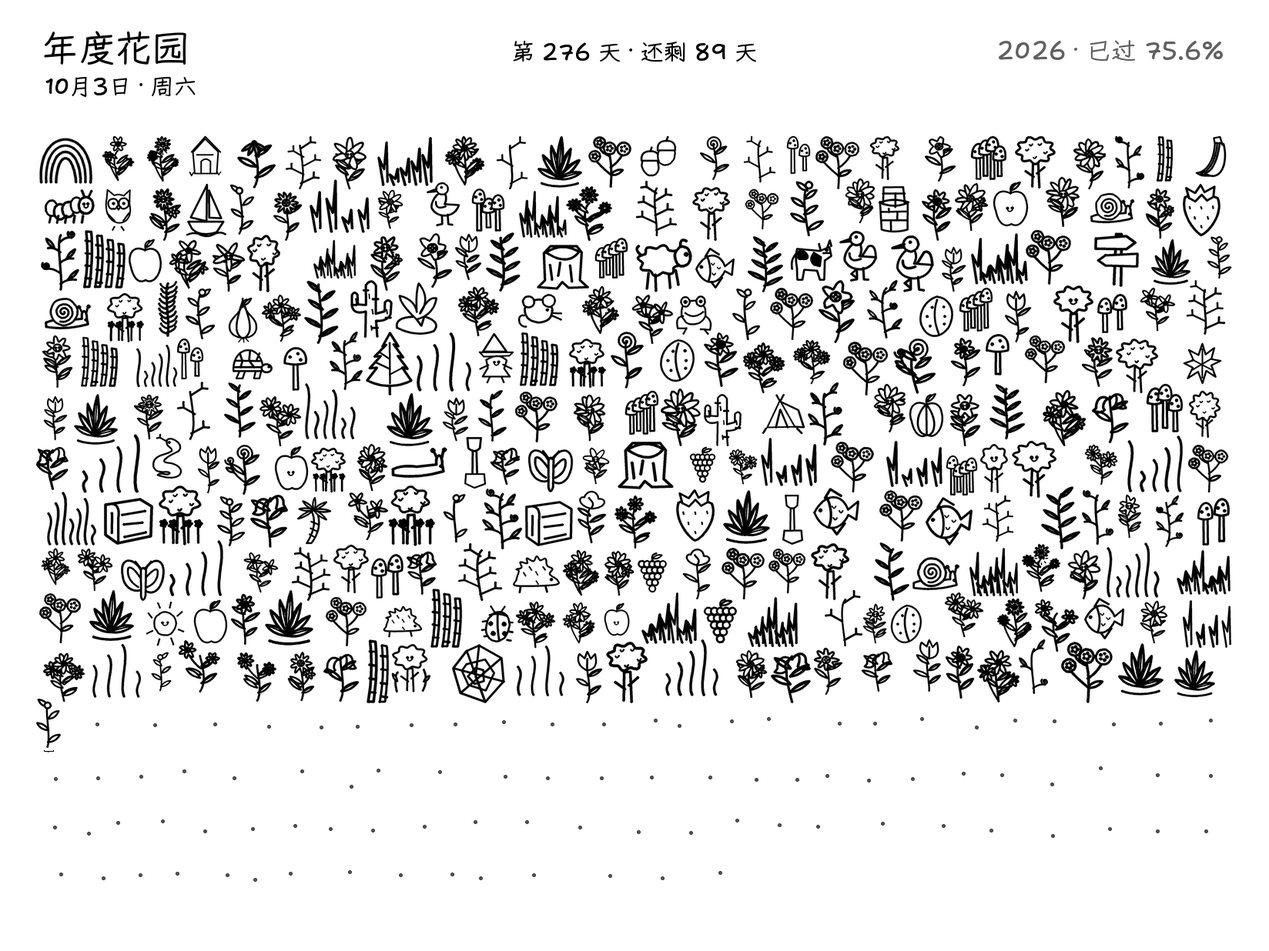
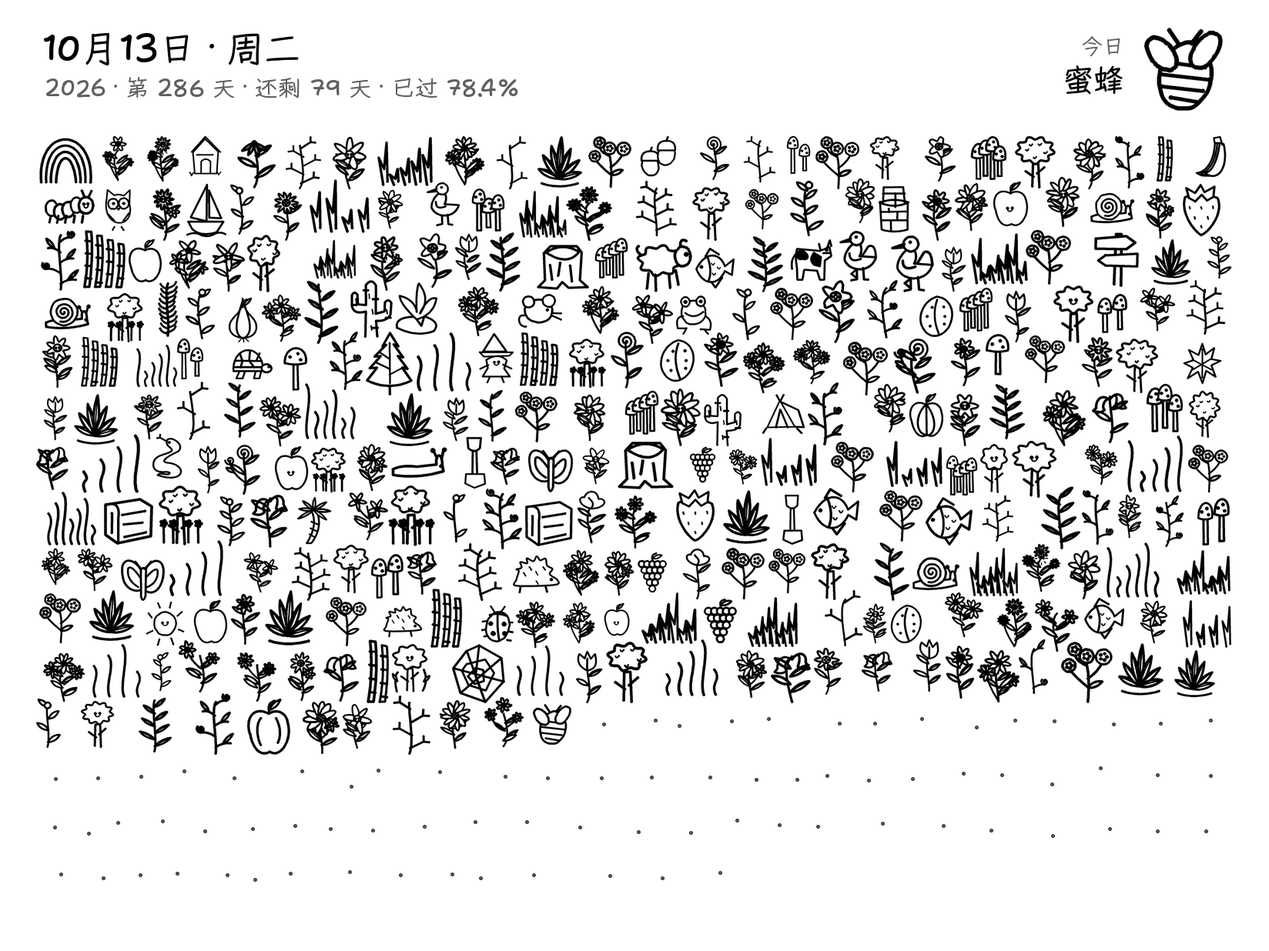
feat: feature today's garden drawing and seasonal placement
Lead the annual garden header with the date and merge the year, day count,
remaining days and elapsed percentage into one gray line. Show the drawing
that grew today, enlarged with its Chinese name, in the top-right corner and
remove the in-garden today underline. The strip it reserved stays in the
layout so existing yearly positions do not move. Render revision 7.

From 2027, twelve seasonal subjects only appear in their months, repeats
are spread about a week apart, and southern-hemisphere locations shift the
seasons by six months. A location change across the equator re-renders the
garden. 2026 and earlier keep their original order and positions, pinned by
tests.

Claude-Session: https://claude.ai/code/session_01QYsiwwUpYhweXhBkxkiEnG

diff --git a/kindle-display/app/annual_garden.py b/kindle-display/app/annual_garden.py
@@ -11,7 +11,7 @@ import random
 
 from PIL import Image, ImageDraw, ImageFont
 
-RENDER_REVISION = 6
+RENDER_REVISION = 7
 SIZE = (1648, 1236)
 ASSETS = Path(__file__).with_name('assets') / 'annual-garden'
 INK = 0
@@ -22,6 +22,37 @@ WEEKDAYS = '一二三四五六日'
 GRID = (44, 174, 1604, 1176)
 COLUMNS = 25
 OUTLINE_GAP = 2
+# Header feature for the drawing that grew today: right edge, bottom, size cap.
+TODAY_RIGHT, TODAY_BOTTOM, TODAY_HEIGHT, TODAY_WIDTH = 1590, 146, 112, 150
+
+SUBJECT_NAMES = {
+    'acorn': '橡果', 'apple': '苹果', 'bamboo': '竹子', 'banana': '香蕉', 'bee': '蜜蜂', 'bell': '风铃草',
+    'berries': '浆果', 'bird': '小鸟', 'bush': '灌木', 'butterfly': '蝴蝶', 'cactus': '仙人掌', 'camp': '帐篷',
+    'carrot': '胡萝卜', 'caterpillar': '毛毛虫', 'cherry': '樱桃', 'clover': '小野花', 'cow': '奶牛',
+    'daisy': '雏菊', 'droop': '垂头花', 'fern': '蕨叶', 'fig': '无花果', 'fish': '小鱼', 'frog': '青蛙',
+    'grapes': '葡萄', 'grass': '草丛', 'hedgehog': '刺猬', 'heron': '苍鹭', 'honeycomb': '蜂巢',
+    'house': '小屋', 'ladybug': '瓢虫', 'lily': '百合', 'log': '原木', 'moon': '月亮', 'mouse': '小老鼠',
+    'mushroom': '蘑菇', 'onion': '洋葱', 'owl': '猫头鹰', 'palm': '棕榈', 'pepper': '甜椒', 'pine': '松树',
+    'pumpkin': '南瓜', 'rainbow': '彩虹', 'rake': '耙子', 'raspberry': '树莓', 'rose': '玫瑰',
+    'rosemary': '迷迭香', 'sailboat': '帆船', 'seaweed': '水草', 'sheep': '绵羊', 'shrub': '树丛',
+    'signpost': '路牌', 'slug': '蛞蝓', 'snail': '蜗牛', 'snake': '小蛇', 'snowman': '雪人', 'spade': '铲子',
+    'spiderweb': '蛛网', 'spiralflower': '黑心菊', 'sprout': '新芽', 'star': '星星', 'stones': '叠石',
+    'strawberry': '草莓', 'stump': '树桩', 'succulent': '多肉', 'sun': '太阳', 'sunflower': '向日葵',
+    'tortoise': '乌龟', 'tree': '小树', 'tulip': '郁金香', 'twig': '枝条', 'vine': '藤蔓',
+    'wateringcan': '洒水壶', 'waterlily': '睡莲', 'well': '水井', 'witch': '小女巫', 'worm': '小虫',
+    'leap-day': '闰日花',
+}
+
+# Years from this one place seasonal subjects in their months. Earlier years
+# keep the original shuffle so gardens already growing do not change.
+SEASONAL_FROM_YEAR = 2027
+# Northern-hemisphere months; the southern hemisphere shifts them by six.
+SEASONS = {
+    'tulip': (3, 4, 5), 'cherry': (5, 6), 'strawberry': (5, 6, 7), 'raspberry': (6, 7, 8),
+    'waterlily': (6, 7, 8), 'sunflower': (7, 8, 9), 'grapes': (8, 9, 10), 'fig': (8, 9, 10),
+    'apple': (9, 10, 11), 'pumpkin': (10, 11), 'acorn': (10, 11), 'snowman': (12, 1, 2),
+}
+MONTH_OF_DAY = tuple(month for month in range(1, 13) for _ in range(calendar.mdays[month]))
 
 
 @lru_cache(maxsize=1)
@@ -78,11 +109,41 @@ def day_counts(now):
     return ordinal, total
 
 
+def subject_of(asset_id: str) -> str:
+    return asset_id if asset_id == 'leap-day' else asset_id.split('-', 1)[1]
+
+
+def season_months(subject: str, southern: bool) -> tuple[int, ...]:
+    months = SEASONS.get(subject, ())
+    return tuple((month+5) % 12 + 1 for month in months) if southern else months
+
+
+def seasonal_order(order, rng, southern: bool) -> list[str]:
+    """Give seasonal drawings a day in their months, spread apart, and fill the
+    remaining days with the other drawings in their shuffled order."""
+    days = [None]*len(order)
+    for asset_id in order:
+        months = season_months(subject_of(asset_id), southern)
+        if not months:
+            continue
+        free = [day for day, month in enumerate(MONTH_OF_DAY) if month in months and days[day] is None]
+        same = [day for day, other in enumerate(days) if other and subject_of(other) == subject_of(asset_id)]
+        distance = {day: min((abs(day-other) for other in same), default=len(order)) for day in free}
+        # Prefer a week between repeats; settle for the widest gap when crowded.
+        spacing = min(7, max(distance.values()))
+        days[rng.choice([day for day in free if distance[day] >= spacing])] = asset_id
+    rest = iter(asset_id for asset_id in order if not SEASONS.get(subject_of(asset_id)))
+    return [asset_id or next(rest) for asset_id in days]
+
+
 @lru_cache(maxsize=128)
-def order_for_year(year: int, seed: str) -> tuple[str, ...]:
+def order_for_year(year: int, seed: str, southern: bool = False) -> tuple[str, ...]:
     order = list(library())
     digest = hashlib.sha256(f'annual-garden:v1:{year}:{seed}'.encode()).digest()
-    random.Random(int.from_bytes(digest,'big')).shuffle(order)
+    rng = random.Random(int.from_bytes(digest,'big'))
+    rng.shuffle(order)
+    if year >= SEASONAL_FROM_YEAR:
+        order = seasonal_order(order, rng, southern)
     if calendar.isleap(year):
         order.insert(59,'leap-day')
     return tuple(order)
@@ -113,7 +174,9 @@ def silhouette_rows(asset_id: str, width: int, height: int):
     Fill the span between the outermost ink pixels on each scanline. Unlike a
     bounding rectangle this retains the narrower stem and concave sides, while
     preventing another plant from entering a flower, rainbow or bamboo clump.
-    Include antialiasing, the future seed and the possible today underline.
+    Include antialiasing, the future seed and a short strip below the stem.
+    That strip once held the today underline; it stays reserved so existing
+    yearly layouts keep every plant where it is.
     """
     original = asset_mask(asset_id)
     mask = original.crop(original.getbbox()).resize((width, height), Image.Resampling.LANCZOS)
@@ -216,14 +279,14 @@ def place_plant(plant, cx, cy, occupied, row_top, row_bottom, fallback):
 
 
 @lru_cache(maxsize=32)
-def planned_slots(year: int, seed: str):
+def planned_slots(year: int, seed: str, southern: bool = False):
     """Compose the whole year once; daily growth never moves existing plants.
 
     Unequal widths drive horizontal positions. Small groups sit closer together
     with wider pockets between them, and their baselines rise and fall.
     Silhouette-aware placement forbids overlaps, including white interiors.
     """
-    order = order_for_year(year, seed)
+    order = order_for_year(year, seed, southern)
     left,top,right,bottom = GRID
     rows=math.ceil(len(order)/COLUMNS)
     sy=(bottom-top)/rows
@@ -306,32 +369,43 @@ def planned_slots(year: int, seed: str):
     return tuple(slots)
 
 
-def garden_slots(year: int, seed: str):
+def garden_slots(year: int, seed: str, southern: bool = False):
     # Do not expose the cached dictionaries for mutation by callers.
-    return (dict(slot) for slot in planned_slots(year,seed))
+    return (dict(slot) for slot in planned_slots(year,seed,southern))
 
 
-def draw_annual_garden(now, seed: str, *, full: bool = False) -> Image.Image:
+def paste_drawing(image, asset_id, bounds, x, y, w, h):
+    mask=asset_mask(asset_id).crop(bounds).resize((w,h),Image.Resampling.LANCZOS)
+    image.paste(INK,(x,y,x+w,y+h),mask)
+
+
+def draw_today(image, draw, asset_id):
+    """Feature the drawing that grew today at header scale, with its name."""
+    bounds=asset_mask(asset_id).getbbox()
+    width,height=bounds[2]-bounds[0],bounds[3]-bounds[1]
+    scale=min(TODAY_HEIGHT/height,TODAY_WIDTH/width)
+    w,h=round(width*scale),round(height*scale)
+    x,y=TODAY_RIGHT-w,TODAY_BOTTOM-h
+    paste_drawing(image,asset_id,bounds,x,y,w,h)
+    hand_text(draw,(x-24,46),'今日',28,'rt',ink=SECONDARY_INK)
+    hand_text(draw,(x-24,84),SUBJECT_NAMES[subject_of(asset_id)],40,'rt')
+
+
+def draw_annual_garden(now, seed: str, *, full: bool = False, southern: bool = False) -> Image.Image:
     ordinal,total=day_counts(now)
     image=Image.new('L',SIZE,PAPER)
     draw=ImageDraw.Draw(image)
-    hand_text(draw,(54,40),'年度花园',48)
-    hand_text(draw,(58,98),f'{now.month}月{now.day}日 · 周{WEEKDAYS[now.weekday()]}',30)
-    hand_text(draw,(824,53),f'第 {ordinal} 天 · 还剩 {total-ordinal} 天',30,'mt')
-    hand_text(draw,(1590,50),f'{now.year} · 已过 {ordinal/total*100:.1f}%',32,'rt',ink=SECONDARY_INK)
+    slots=list(garden_slots(now.year,seed,southern))
+    hand_text(draw,(54,40),f'{now.month}月{now.day}日 · 周{WEEKDAYS[now.weekday()]}',48)
+    hand_text(draw,(58,100),f'{now.year} · 第 {ordinal} 天 · 还剩 {total-ordinal} 天 · 已过 {ordinal/total*100:.1f}%',
+              30,ink=SECONDARY_INK)
+    draw_today(image,draw,slots[ordinal-1]['asset_id'])
 
     grown=total if full else ordinal
-    slots=list(garden_slots(now.year,seed))
-    # Each future seed and today marker has space reserved by the annual plan.
+    # Each future seed has space reserved by the annual plan.
     for slot in slots[grown:]:
         cx,cy=slot['seed_x'],slot['seed_y']
         draw.ellipse((cx-2,cy-2,cx+2,cy+2),fill=SEED_INK)
     for slot in slots[:grown]:
-        x,y,w,h=slot['x'],slot['y'],slot['width'],slot['height']
-        mask=asset_mask(slot['asset_id']).crop(slot['bounds']).resize((w,h),Image.Resampling.LANCZOS)
-        image.paste(INK,(x,y,x+w,y+h),mask)
-    if not full:
-        slot=slots[ordinal-1];middle=slot['x']+slot['width']/2
-        y=slot['y']+slot['height']+2
-        draw.line([(middle-6,y),(middle-1,y+1),(middle+6,y)],fill=INK,width=2)
+        paste_drawing(image,slot['asset_id'],slot['bounds'],slot['x'],slot['y'],slot['width'],slot['height'])
     return image

diff --git a/kindle-display/test_annual_garden.py b/kindle-display/test_annual_garden.py
@@ -63,9 +63,10 @@ class AnnualGardenTest(unittest.TestCase):
         self.assertEqual(first.mode,'L')
         self.assertEqual(first.size,(1648,1236))
         self.assertEqual(first.getpixel((0,0)),255)
-        for rectangle in [(48,35,285,88),(640,45,1010,88)]:
+        # Black date and today's featured drawing; the merged counts are gray.
+        for rectangle in [(50,38,320,90),(1340,30,1600,150)]:
             self.assertEqual(first.crop(rectangle).getextrema()[0],0)
-        self.assertEqual(first.crop((1150,40,1600,95)).getextrema()[0],96)
+        self.assertEqual(first.crop((55,97,620,132)).getextrema()[0],96)
 
     def test_year_boundaries_and_positions_stay_in_frame(self):
         for year in (2024,2026,2027):
@@ -82,8 +83,8 @@ class AnnualGardenTest(unittest.TestCase):
 
     def test_tight_header_and_dense_garden_preserve_readable_shapes(self):
         image=garden.draw_annual_garden(datetime(2026,12,31),'density')
-        self.assertEqual(image.crop((1150,40,1600,95)).getextrema()[0],garden.SECONDARY_INK)
-        self.assertEqual(image.crop((48,35,285,88)).getextrema()[0],0)
+        self.assertEqual(image.crop((55,97,620,132)).getextrema()[0],garden.SECONDARY_INK)
+        self.assertEqual(image.crop((50,38,320,90)).getextrema()[0],0)
         # The garden starts below the compact date line and occupies substantially
         # more of the paper, without becoming a field of solid black.
         body=image.crop((44,174,1604,1184))
@@ -105,7 +106,7 @@ class AnnualGardenTest(unittest.TestCase):
         for slot in slots[:grown-1]:
             x,y,w,h=(slot[k] for k in ('x','y','width','height'))
             mask=garden.asset_mask(slot['asset_id']).crop(slot['bounds']).resize((w,h),Image.Resampling.LANCZOS)
-            # Check solid strokes, excluding yesterday's movable today marker.
+            # Every solid stroke of an earlier day stays in place.
             for offset,value in enumerate(mask.tobytes()):
                 if value==255:
                     px=x+offset%w;py=y+offset//w
@@ -135,7 +136,8 @@ class AnnualGardenTest(unittest.TestCase):
     def test_complete_year_contours_seeds_and_markers_have_clearance(self):
         # Rebuild the visible envelopes independently with Pillow. Test the
         # actual resized ink (including faint antialiasing), enclosed white
-        # space, future seeds and today's underline, rather than planner scores.
+        # space, future seeds and the strip reserved below each stem, rather
+        # than planner scores.
         for year,seed in ((2024,'public-example-garden'),(2026,'public-example-garden'),
                           (2026,'touching'),(2027,'composition')):
             with self.subTest(year=year,seed=seed):
@@ -163,6 +165,43 @@ class AnnualGardenTest(unittest.TestCase):
                 self.assertGreaterEqual(bounds[1],top+garden.OUTLINE_GAP)
                 self.assertLessEqual(bounds[2],right-garden.OUTLINE_GAP)
                 self.assertLessEqual(bounds[3],bottom-garden.OUTLINE_GAP)
+
+    def test_today_is_featured_in_the_header_without_an_underline(self):
+        names={garden.subject_of(asset_id) for asset_id in garden.library()+('leap-day',)}
+        self.assertLessEqual(names,set(garden.SUBJECT_NAMES))
+        seed='featured'
+        slots=list(garden.garden_slots(2026,seed))
+        today=garden.draw_annual_garden(datetime(2026,10,3),seed)
+        tomorrow=garden.draw_annual_garden(datetime(2026,10,4),seed)
+        # The header follows the newest drawing while the garden keeps growing.
+        self.assertNotEqual(today.crop((1340,30,1600,150)).tobytes(),tomorrow.crop((1340,30,1600,150)).tobytes())
+        slot=slots[275];middle=slot['x']+slot['width']//2;bottom=slot['y']+slot['height']+1
+        self.assertEqual(today.crop((middle-7,bottom,middle+8,bottom+4)).getextrema(),(255,255))
+        leap=garden.draw_annual_garden(datetime(2028,2,29),seed)
+        self.assertEqual(leap.crop((1340,30,1600,150)).getextrema()[0],0)
+
+    def test_seasons_start_next_year_and_follow_the_hemisphere(self):
+        # The garden already growing in 2026 keeps every drawing and position.
+        order=garden.order_for_year(2026,'public-example-garden')
+        self.assertEqual(hashlib.sha256('|'.join(order).encode()).hexdigest()[:16],'b68a7f5badce4593')
+        layout=[(s['asset_id'],s['x'],s['y'],s['width'],s['height'])
+                for s in garden.planned_slots(2026,'public-example-garden')]
+        self.assertEqual(hashlib.sha256(json.dumps(layout).encode()).hexdigest()[:16],'9a7478f9801eb338')
+        self.assertEqual(garden.order_for_year(2026,'public-example-garden',True),order)
+        for year in (2027,2028):
+            for southern in (False,True):
+                with self.subTest(year=year,southern=southern):
+                    order=garden.order_for_year(year,'seasons',southern)
+                    self.assertEqual(set(order)-{'leap-day'},set(garden.library()))
+                    if year==2028:self.assertEqual(order[59],'leap-day')
+                    for day,asset_id in enumerate(order):
+                        months=garden.season_months(garden.subject_of(asset_id),southern)
+                        if months:
+                            self.assertIn((datetime(year,1,1)+timedelta(day)).month,months,asset_id)
+                    tulips=[day for day,asset_id in enumerate(order) if asset_id.endswith('-tulip')]
+                    self.assertGreaterEqual(min(b-a for a,b in zip(tulips,tulips[1:])),3)
+        self.assertEqual(garden.season_months('snowman',True),(6,7,8))
+        self.assertNotEqual(garden.order_for_year(2027,'seasons'),garden.order_for_year(2027,'seasons',True))
 
     def test_persistent_identity_concurrent_calls_and_corruption(self):
         with tempfile.TemporaryDirectory() as directory,patch.object(main,'DATA_DIR',Path(directory)):

diff --git a/kindle-display/app/main.py b/kindle-display/app/main.py
@@ -776,7 +776,7 @@ def _render_page_impl(page_id: str, settings: dict[str, Any]) -> dict[str, Any]:
     elif page_id == "year-progress":
         image = draw_year_progress(now, font)
     elif page_id == "annual-garden":
-        image = draw_annual_garden(now, annual_garden_seed())
+        image = draw_annual_garden(now, annual_garden_seed(), southern=settings["latitude"] < 0)
     elif page_id == "time-scales":
         image = draw_time_scales(now, font)
     elif page_id == "daily-overview":
@@ -1221,6 +1221,9 @@ def save_board_settings(candidate, revision):
             affected.update(PAGE_DEFINITIONS)
         if before['location'] != updated['location']:
             affected.update(('weather-glance', 'hourly-weather', 'daily-overview', 'day-night'))
+            # Garden seasons follow the hemisphere, not the exact place.
+            if ((before['location'] or {}).get('latitude', 0) < 0) != ((updated['location'] or {}).get('latitude', 0) < 0):
+                affected.add('annual-garden')
         old, new = before['display_preferences'], updated['display_preferences']
         if old['temperature_unit'] != new['temperature_unit']:
             affected.update(('weather-glance', 'hourly-weather', 'daily-overview'))

diff --git a/kindle-display/test_previews.py b/kindle-display/test_previews.py
@@ -117,6 +117,18 @@ class PreviewTest(unittest.TestCase):
             main.render_preview_pass()
         render.assert_called_once_with('weather-glance')
 
+    def test_garden_rerenders_only_when_the_hemisphere_changes(self):
+        self.configure(pages=('annual-garden', 'weather-glance'))
+        with patch.object(main, 'render_page_if_stale', side_effect=self.fake_render):
+            main.render_preview_pass()
+        region = main.board_settings()['location']
+        for latitude, expected in ((1, {'weather-glance'}), (-33.87, {'weather-glance', 'annual-garden'})):
+            response = self.client.post('/admin/api/settings', headers=self.csrf(), json={'revision': main.board_settings()['revision'], 'location': {**region, 'latitude': latitude}})
+            self.assertEqual(response.status_code, 200)
+            with patch.object(main, 'render_page_if_stale', side_effect=self.fake_render) as render:
+                main.render_preview_pass()
+            self.assertEqual({call.args[0] for call in render.call_args_list}, expected)
+
     def test_changed_configuration_and_restart_do_not_leave_jobs_stuck(self):
         self.configure()
         revision = main.board_settings()['revision']

diff --git a/docs/ANNUAL_GARDEN.md b/docs/ANNUAL_GARDEN.md
@@ -11,9 +11,11 @@
 ## 日期与排列
 
 - 日期来自服务端已保存的 IANA 时区，包含当天图案；未来日期显示种子。年份、已过百分比、年内天数与剩余天数自动计算，无需手工录入。
+- 顶部以日期和星期为主；年份、年内天数、剩余天数与已过百分比合并为一行灰色小字。右上角放大展示当天新长出的图案及中文名，花园内不再画今日短线；今天的位置即已长出图案与种子的交界处。
 - 平年使用 365 幅不同图案，闰年在 2 月 29 日加入独立 `leap-day`，共 366 幅。年度边界与闰年由日历计算。
 - 第一次渲染创建私有数据文件 `annual-garden.json`，保存实例种子。同一实例、同一年会得到固定素材顺序，刷新和重启不会重新随机排列。
-- 整年位置提前规划：树冠枝叶较大，花卉居中，小花幼芽和果实菌菇较小。按实际图案宽度安排不等宽位置，相邻 3–5 幅形成小组，组间保留呼吸空间，高低位置错落。R6 将轮廓避让改为硬约束：每条水平扫描线保护最外侧笔画之间的区域，包含花冠内部留白及开放枝叶，轮廓间至少留出 2 像素距离；未来种子和今日标记也提前预留空间。
+- 自 2027 年起，郁金香、樱桃、草莓、树莓、睡莲、向日葵、葡萄、无花果、苹果、南瓜、橡果和雪人只出现在各自季节的月份，同一题材尽量相隔一周，其余图案仍随机分布。纬度小于 0 的南半球地区季节整体错开六个月；地区跨越南北半球时花园重新生成。2026 年及以前的花园保持原有顺序和位置。
+- 整年位置提前规划：树冠枝叶较大，花卉居中，小花幼芽和果实菌菇较小。按实际图案宽度安排不等宽位置，相邻 3–5 幅形成小组，组间保留呼吸空间，高低位置错落。R6 将轮廓避让改为硬约束：每条水平扫描线保护最外侧笔画之间的区域，包含花冠内部留白及开放枝叶，轮廓间至少留出 2 像素距离；未来种子及每株下方一小段空间（原今日短线位置）也提前预留；R7 去掉短线后仍保留这段空间，已有排列不会移动。
 - 先为全年每株预留可辨认的最小轮廓，再优先安排树冠枝叶、花卉和小型点缀，最后利用剩余空隙调整拥挤图案。候选位置必须无碰撞，再比较位移和缩放幅度；布局升级会重新排布一次，日图案顺序保持不变。
 - 日期推进仅将对应种子换成图案，不推动此前的图案。未来种子与该图案中心对应，看似不规则，但在同一年中位置固定。
 
@@ -23,12 +25,12 @@
 
 | 元素 | 原生灰度（0 最黑，255 最白） |
 |---|---|
-| 图案主体、标题、日期、年内天数与今日标记 | 0 |
-| 次要年份与已过百分比 | 96 |
+| 图案主体、日期与星期、今日图案及名称 | 0 |
+| 年份、年内天数、剩余天数、已过百分比及「今日」标签 | 96 |
 | 未来日期种子 | 80 |
 | 纸面 | 255 |
 
-图案主线宽基准为素材坐标中的 3.7，随图案大小缩放，并有轻微压力变化。透明边缘及缩放抗锯齿会产生中间灰度，不应将全部边缘强行二值化。未来种子先从 192 调至 176，R5 收深至 100，R6 按用户确认进一步调整至 80。种子大小保持原方案，位置随新的全年布局确定；渲染修订为 6。
+图案主线宽基准为素材坐标中的 3.7，随图案大小缩放，并有轻微压力变化。透明边缘及缩放抗锯齿会产生中间灰度，不应将全部边缘强行二值化。未来种子先从 192 调至 176，R5 收深至 100，R6 按用户确认进一步调整至 80。种子大小保持原方案，位置随新的全年布局确定。R7 调整顶部信息并在右上角展示今日图案，渲染修订为 7。
 
 中文使用 Yozai Medium，数字及拉丁字符使用 Shantell Sans。字体文件、OFL 许可与来源校验随项目提供，见 [第三方说明](../THIRD_PARTY_NOTICES.md) 和 [素材库说明](../kindle-display/app/assets/annual-garden/README.md)。
 
@@ -36,7 +38,7 @@
 
 `kindle-display/app/assets/annual-garden/` 包含 365 幅基础 SVG、透明 PNG、独立闰日图案、清单与字体。清单记录主题及校验值；这些是按参考图重绘的素材，与原作细节有差异，不应宣传为原应用素材包或完整复刻。
 
-生成器为 `tools/build_annual_garden_assets.py`，渲染器为 `kindle-display/app/annual_garden.py`。调整素材后需同步 PNG 与清单，并递增渲染修订以淘汰旧缓存。测试覆盖素材完整性、字体、固定排列、日期推进、闰日、灰度，以及完整年份的图案轮廓、种子和今日标记互不碰撞；命令见 [开发指南](DEVELOPMENT.md)。
+生成器为 `tools/build_annual_garden_assets.py`，渲染器为 `kindle-display/app/annual_garden.py`。调整素材后需同步 PNG 与清单，并递增渲染修订以淘汰旧缓存。测试覆盖素材完整性、字体、固定排列、日期推进、闰日、灰度，以及完整年份的图案轮廓、种子和预留空间互不碰撞、2026 年排列不变、季节月份和南北半球；命令见 [开发指南](DEVELOPMENT.md)。
 
 ## 缓存、备份与升级
 

diff --git a/kindle-display/app/assets/annual-garden/README.md b/kindle-display/app/assets/annual-garden/README.md
@@ -10,7 +10,7 @@
 
 R3 构图按图案视觉重量区分树冠枝叶、花卉、小花幼芽、果实菌菇等尺寸层次，使用实际墨迹边界安排不等宽位置。相邻图案组成 3–5 幅的小组，组内靠近、组间留出呼吸空间，高低位置随小组节奏变化。拥挤处按实际线条重合量微调位置和尺寸，避免相邻轮廓过度粘连。整年位置提前规划并保持稳定，新增一天不会推动之前的图案。此策略是本项目的实现，不代表原应用的排列算法。
 
-R6 将轮廓避让改为硬约束：按水平扫描线保护整株图案的占用轮廓，包含内部留白与开放枝叶，保留至少 2 像素距离。未来种子及今日标记也参与预留。先为全年图案保留最小空间，再优先安排较大枝叶、花卉和小型点缀，最后利用空隙局部调整。每日图案顺序、素材及字体保持原方案，种子灰度按用户确认由 100 收深至 80，大小不变；升级时位置重新规划一次，之后逐日增长不会移动已有图案。
+R6 将轮廓避让改为硬约束：按水平扫描线保护整株图案的占用轮廓，包含内部留白与开放枝叶，保留至少 2 像素距离。未来种子及每株下方的一小段空间也参与预留（R7 去掉今日短线后仍保留，避免已有排列移动）。先为全年图案保留最小空间，再优先安排较大枝叶、花卉和小型点缀，最后利用空隙局部调整。每日图案顺序、素材及字体保持原方案，种子灰度按用户确认由 100 收深至 80，大小不变；升级时位置重新规划一次，之后逐日增长不会移动已有图案。
 
 线条保留轻微的压力变化，R3 主线宽由 4.3 收细至 3.7；内部细节同比收细。年份和百分比为灰度 96，主体线条与主要文字为灰度 0。R4 将未来种子灰度由 192 调至 176；R5 按实机试用要求继续调至 100，大小和位置保持不变。
 

diff --git a/previews/README.md b/previews/README.md
@@ -12,11 +12,11 @@
 | 逐时天气 | [hourly-weather.png](hourly-weather.png) |
 | 山水长卷 | [shan-shui.png](shan-shui.png) |
 | 年度进度（2026-10-02 新布局） | [year-progress.png](year-progress.png) |
-| 年度花园（2026-10-03 轮廓优化） | [annual-garden.png](annual-garden.png) |
+| 年度花园（2026-10-13 今日展示） | [annual-garden.png](annual-garden.png) |
 | 每日概览 | [daily-overview.png](daily-overview.png) |
 | 时间刻度 | [time-scales.png](time-scales.png) |
 
-年度进度单图于 2026-10-02 重新生成；年度花园于 2026-10-03 更新为 R6 轮廓避让版，种子灰度 80。两者均为原生横屏 1648×1236；花园使用固定公开示例种子，与私人安装实例无关。最新花园参数见 [selected-render-manifest.json](selected-render-manifest.json)。上方历史拼图仍保留原年度进度，不包含年度花园。
+年度进度单图于 2026-10-02 重新生成；年度花园于 2026-10-13 更新为 R7：顶部以日期为主，右上角展示今日图案，种子灰度 80。两者均为原生横屏 1648×1236；花园使用固定公开示例种子，与私人安装实例无关。最新花园参数见 [selected-render-manifest.json](selected-render-manifest.json)。上方历史拼图仍保留原年度进度，不包含年度花园。
 
 `setup-desktop.png` 来自 v0.2.0 隔离测试实例的日常设置，使用保留示例域名，没有显示设备码或账号资料。
 
@@ -37,5 +37,5 @@ python tools/render_public_previews.py --at 2026-10-02T12:00:00+08:00 --images-o
 只重现当前年度花园示例：
 
 ```sh
-python tools/render_public_previews.py --at 2026-10-03T12:00:00+08:00 --images-only --pages annual-garden
+python tools/render_public_previews.py --at 2026-10-13T12:00:00+08:00 --images-only --pages annual-garden
 ```

diff --git a/CHANGELOG.md b/CHANGELOG.md
@@ -1,5 +1,11 @@
 # Changelog
 
+## 未发布 — 2026-10-13 年度花园今日展示与季节
+
+- 顶部以日期和星期为主，年份、年内天数、剩余天数与已过百分比合并为一行灰色小字，去掉「年度花园」标题。
+- 右上角放大展示当天新长出的图案及中文名，删除花园内的今日短线；短线原有的预留空间保留，今年已有排列不移动。渲染修订升至 7。
+- 自 2027 年起，郁金香、向日葵、南瓜、雪人等 12 种季节性题材只出现在对应月份，同一题材尽量相隔一周；南半球季节错开六个月，地区跨越南北半球时花园重新生成。2026 年及以前的顺序与位置不变。
+
 ## 未发布 — 2026-10-03 年度花园轮廓优化
 
 - 年度花园 R6 按完整图案轮廓执行无重叠排列，保护花冠内部留白、开放枝叶、未来种子及今日标记，保留至少 2 像素间隙；全年预留空间与局部微调保持大小层次和小组疏密。
